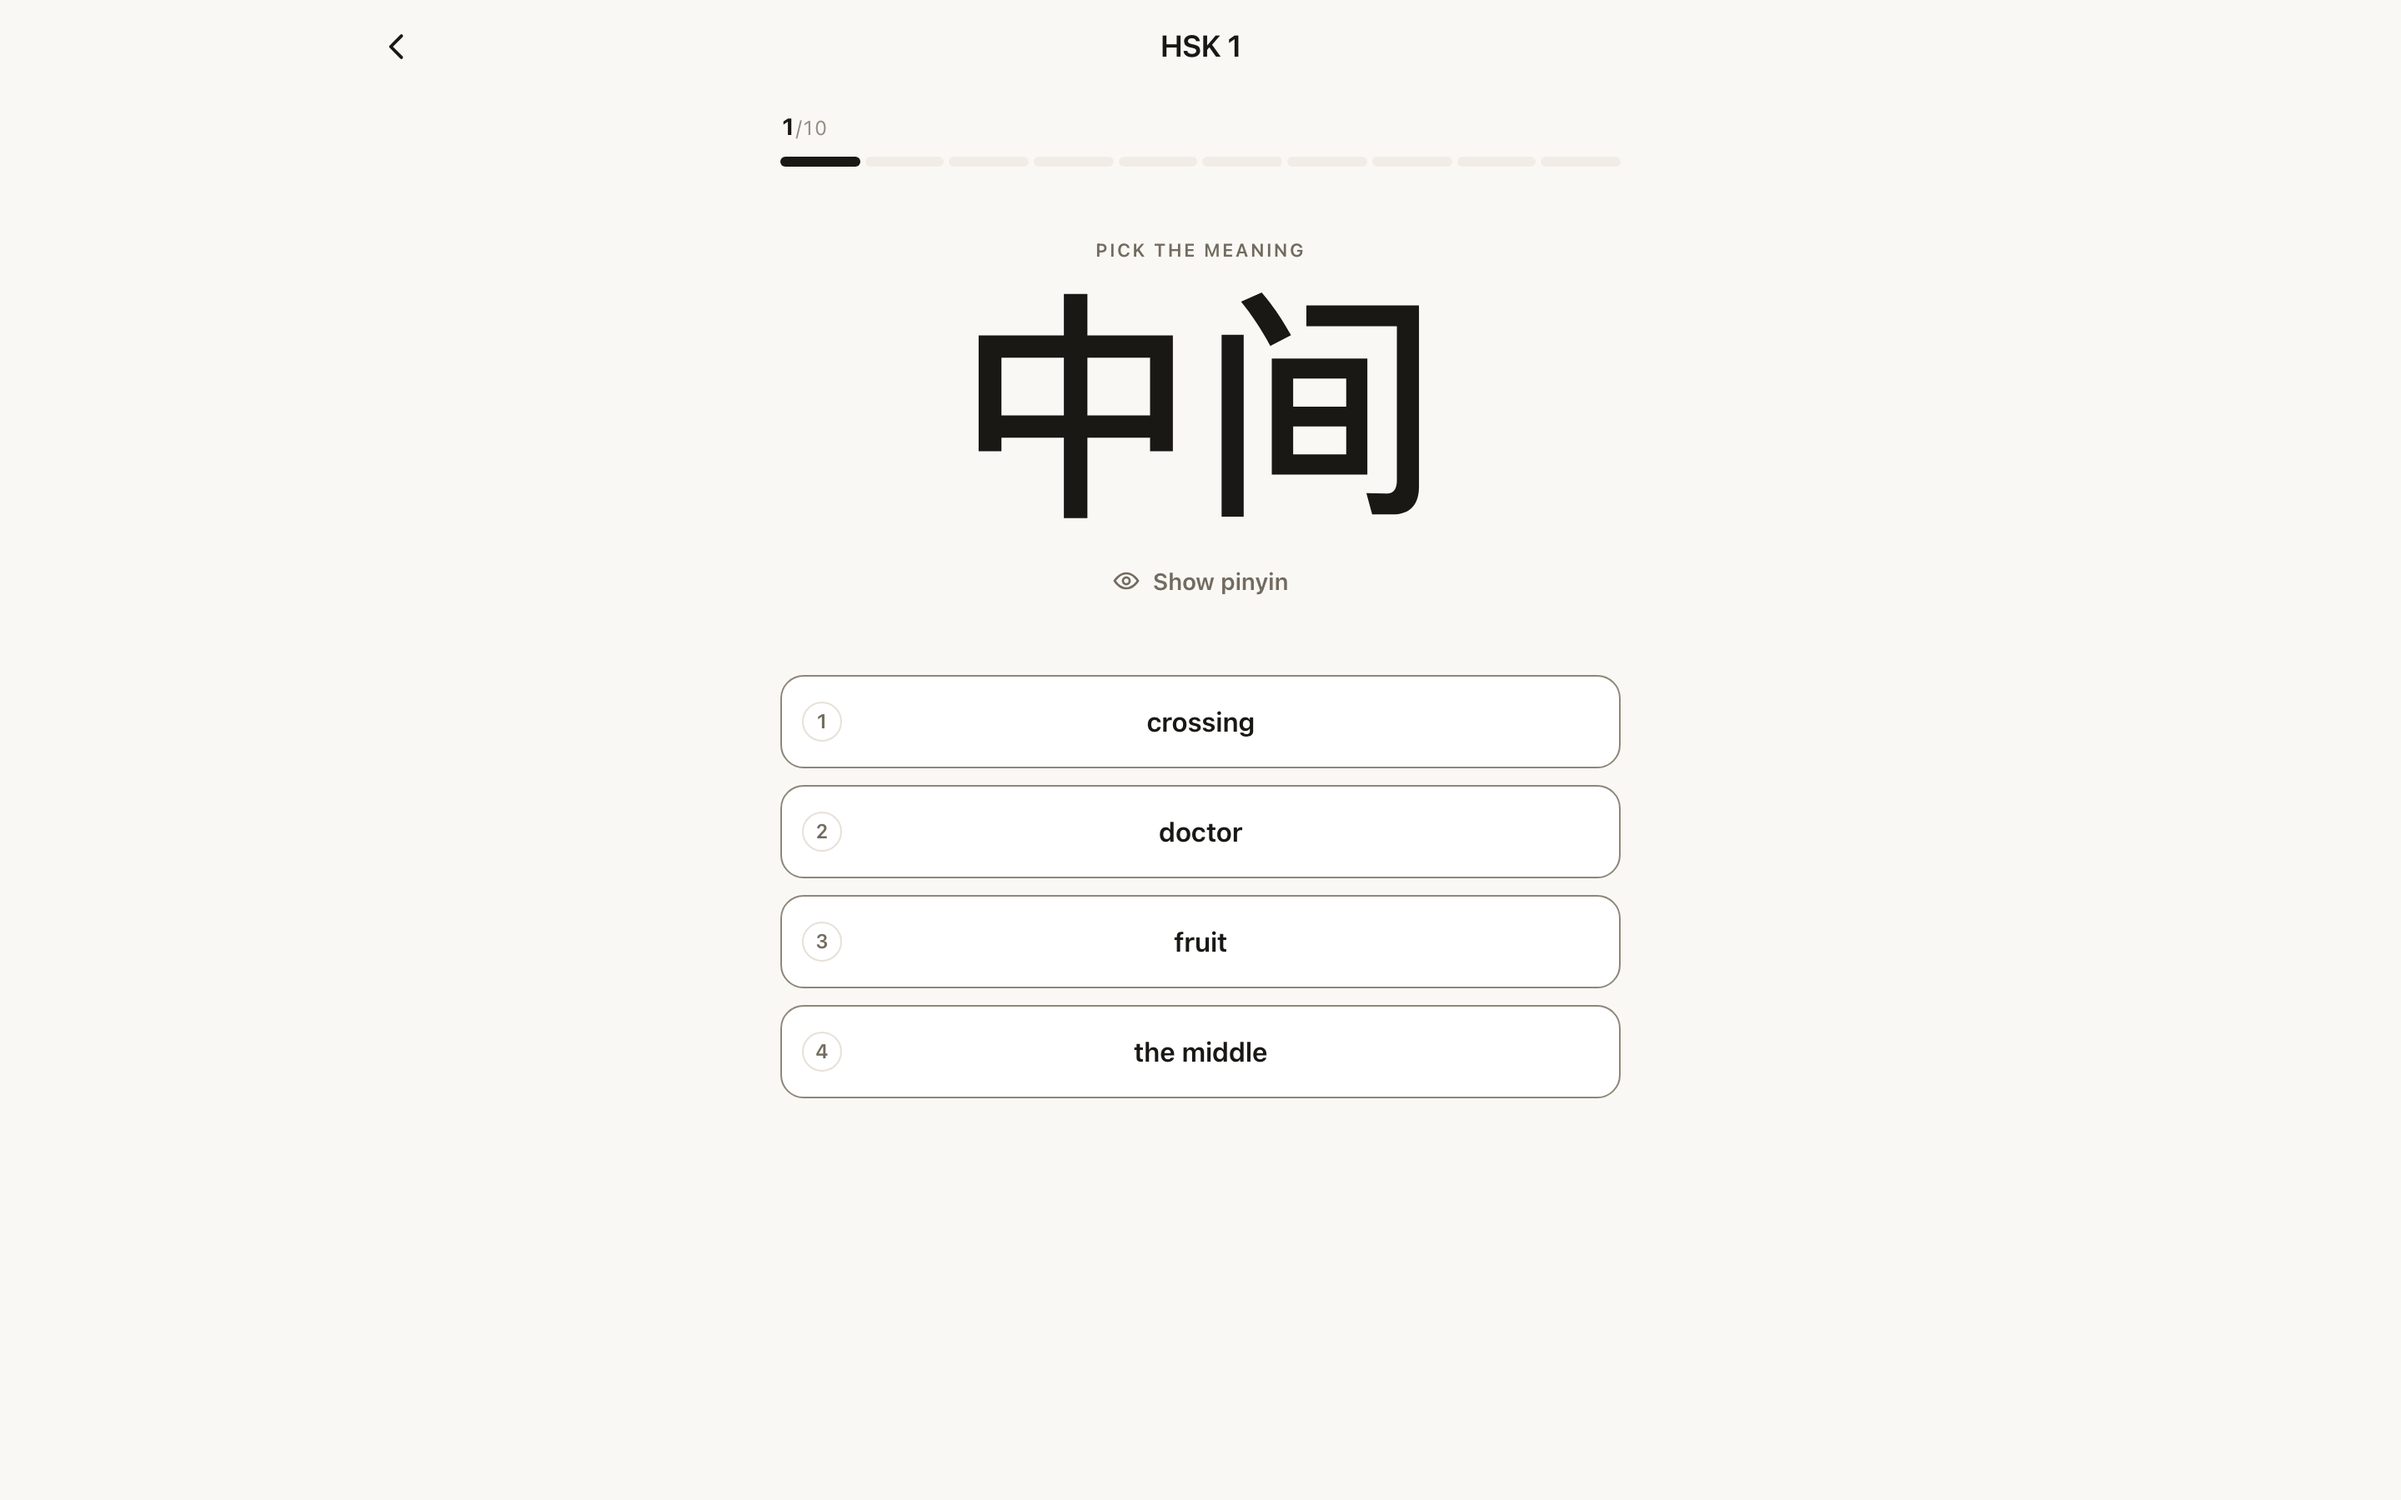
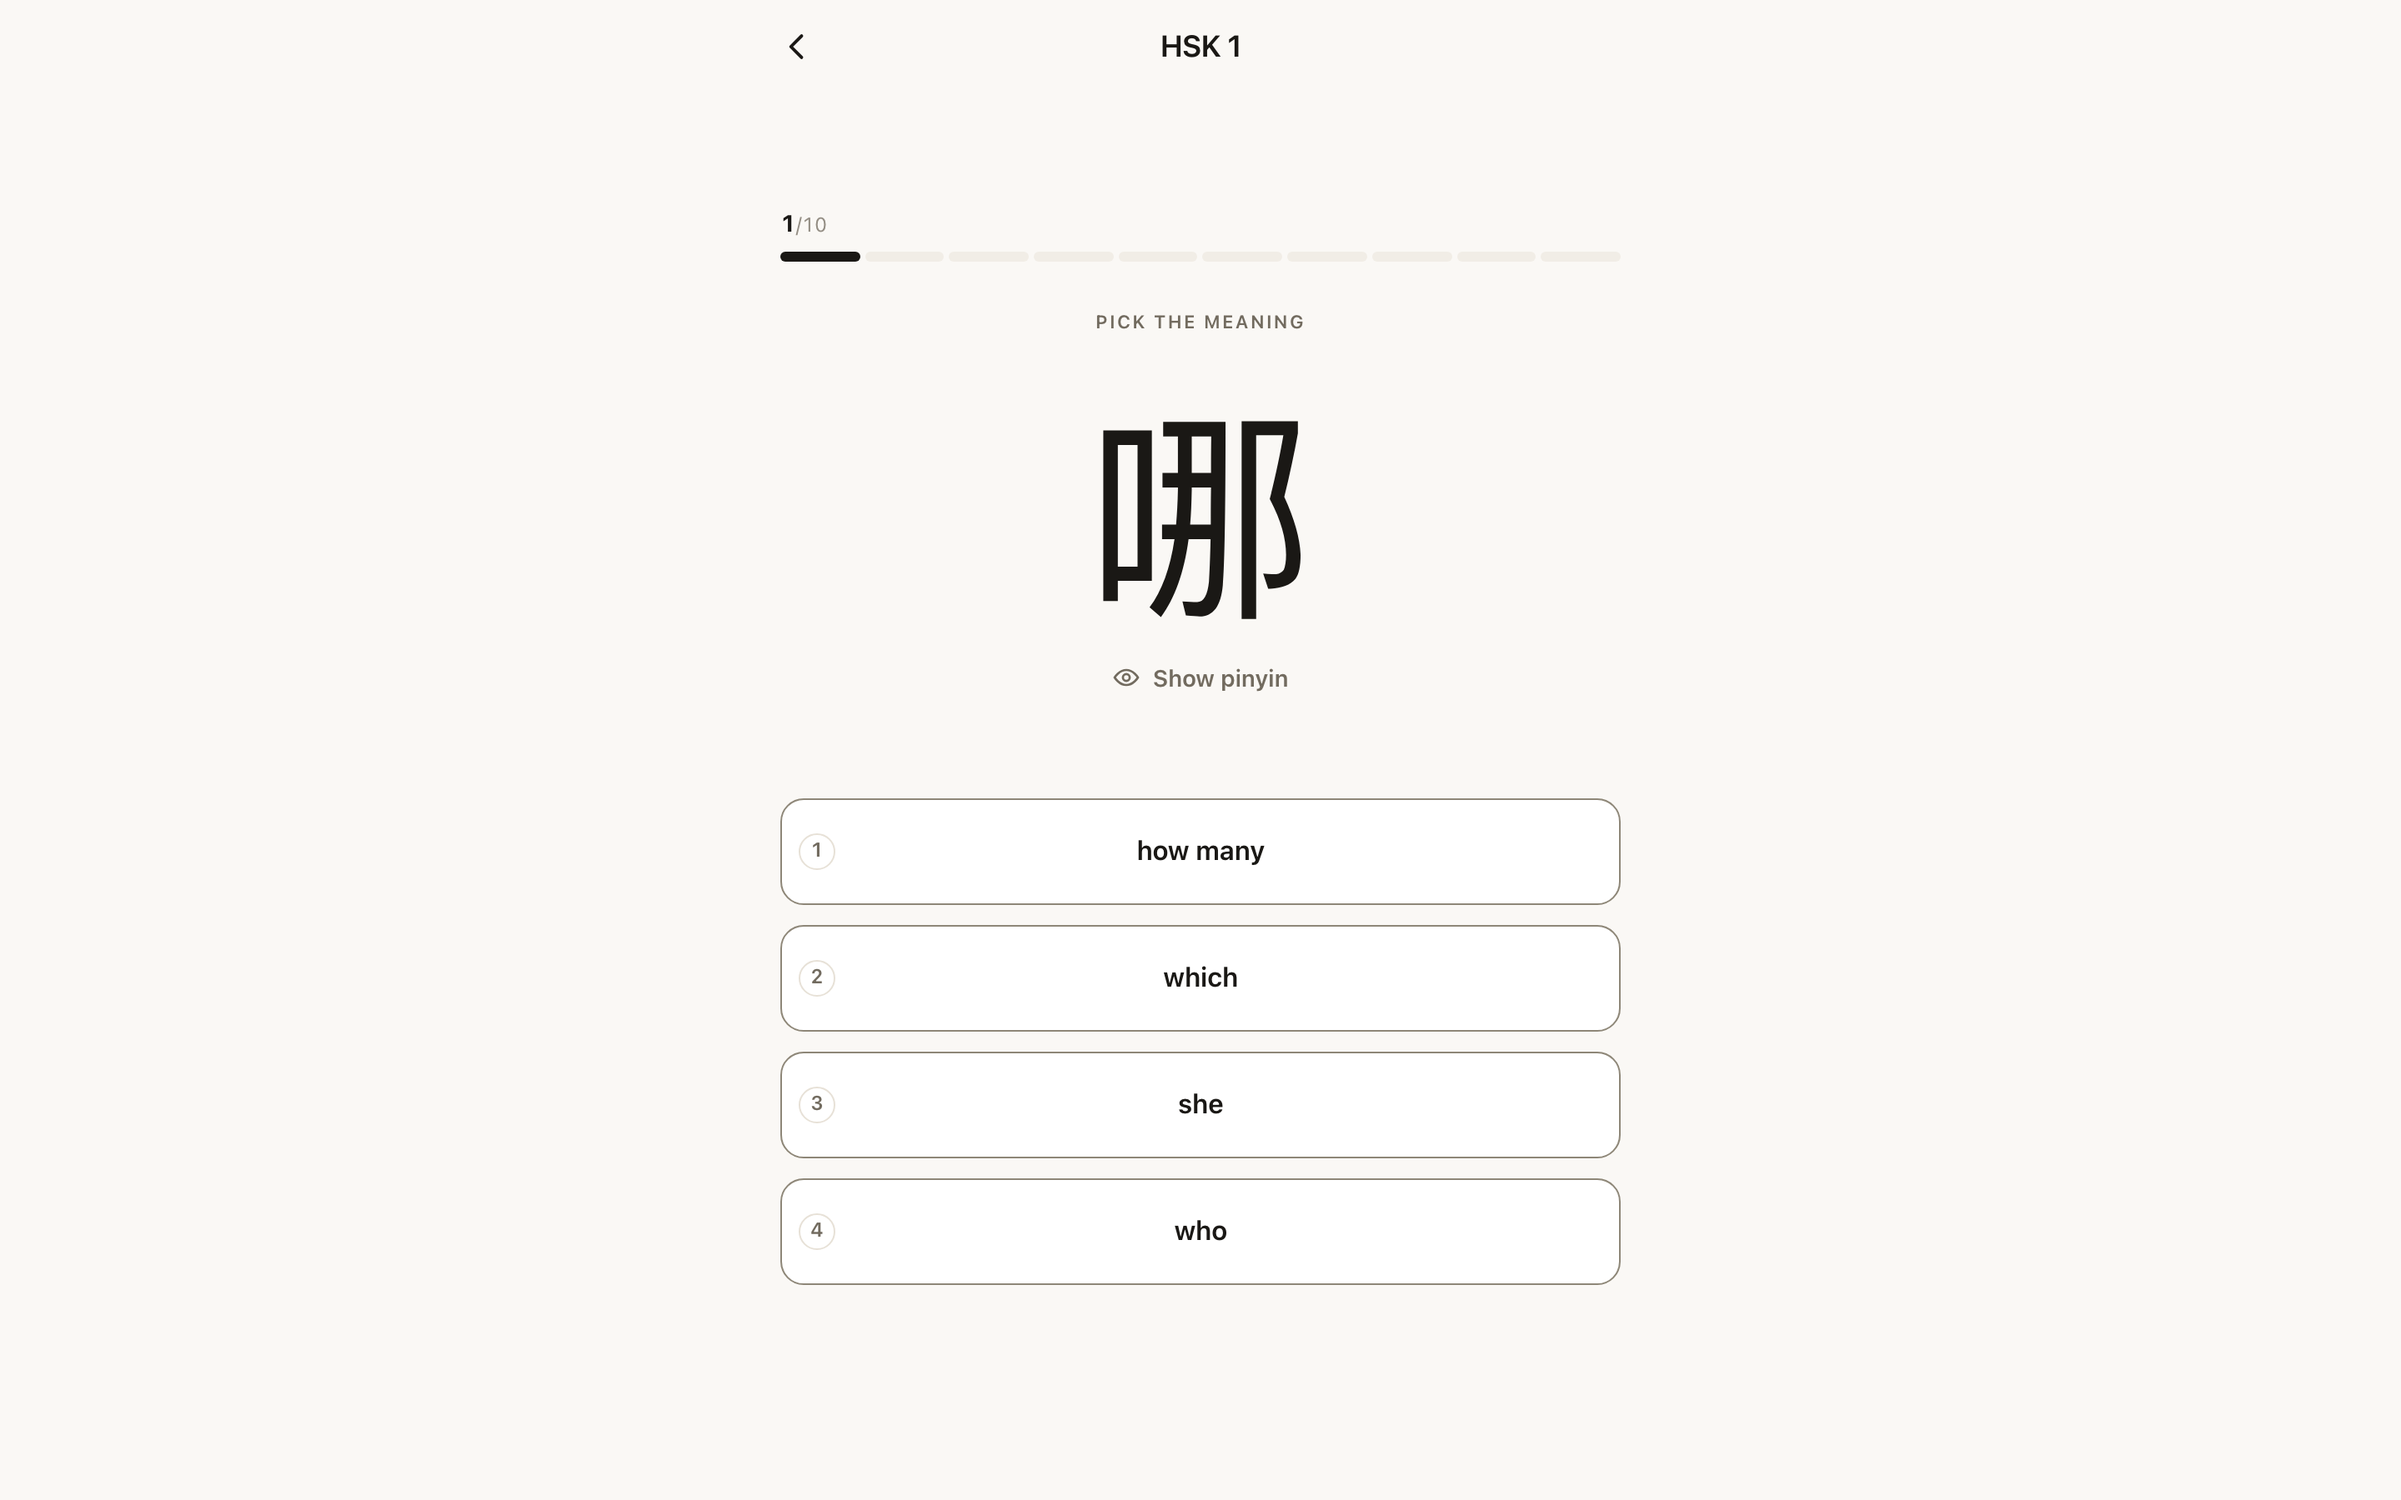
critic(design-system): FAIL — Give tone its own five hues, then let the landing page use them. [loop 2]

diff --git a/progress/verdicts/loop-2-design-system.md b/progress/verdicts/loop-2-design-system.md
@@ -1,0 +1,152 @@
+# Verdict — design-system, loop 2
+
+**PASS: no.** Loop 1's two `fail`s are genuinely fixed — tone colour now reaches every word
+(`bái tiān`, `ài hào`, `bà ba` all split and paint), and the counts reconcile. What remains is not
+a broken renderer, it is an undecided one: the system ships **four different answers to "where does
+tone colour go"** and **two tone hues that are byte-identical to state colours**, and the screen
+every learner sees first opts out of the whole thing.
+
+Every number below was re-derived from the shipped source and data, not taken on trust. All eight
+critic findings reproduce; none were overstated.
+
+---
+
+## Blind judge — it preferred **ours**, decisively
+
+`progress/blind/loop-2/design-system/mapping.json`: **A = Pleco** (`reference/screenshots/pleco/pleco-iphone-01.png`),
+**B = ours** (`/Users/div/Desktop/project/hskquiz/progress/shots/loop-2/design-system-browse-mobile.png`).
+The judge picked **B**, gap size **large**: *"B is authored; A is assembled… A's problems are the
+absence of a system."* Its `whatWeakerMustChange` list is therefore addressed to Pleco, not to us,
+and I am not going to launder it into a deficit.
+
+Two things in it do land on us, though, and both are load-bearing:
+
+1. **It found finding #3 blind.** Its one substantive complaint about B: *"its tone red for bā/tiān
+   is close enough to the 'Practise' red that a semantic data colour collides with the interface
+   accent."* It had no source access. It read `--hq-tone-1: #c8102e` off the pixels.
+2. **It settles finding #2 for us.** Its #1 instruction to Pleco is *"Stop colouring the hanzi…
+   move tone signalling onto the pinyin alone. Six fully saturated hues in the largest type on
+   screen is the single biggest craft failure here — it destroys the character silhouette."* Our
+   `browse/WordRow.svelte:50-54` already argues exactly this in a comment. `WordSheet.svelte:248`
+   and `summary/WordCard.svelte:98` do the condemned thing at 60px and 90px. The tie is broken:
+   **hanzi stays ink; tone lives on pinyin.**
+
+So the win is real and the browse list is the best screen in the app. It is also 1 of 5 screens.
+
+---
+
+## Surviving findings
+
+### 1. MAJOR — The landing page is outside the tone system, in the colour that means "wrong"
+
+Fifteen preview words and the hero pinyin are hand-set flat crimson with tone colouring explicitly
+disabled. `levels/LevelCard.svelte:94-100` passes `tones={false} spaced={false} class="…text-accent"`;
+`+page.svelte:120` hand-writes `<p class="…text-accent">cíhuì liànxí</p>` — which the file's own
+header forbids ("do not hand-write `var(--color-tone-*)` in a screen"; this is the same move in the
+other direction).
+
+`/Users/div/Desktop/project/hskquiz/progress/shots/loop-2/design-system-desktop.png`: tóngyì (2+4),
+mùbiāo (4+1), qūbié (1+2), xiàolǜ (4+4), xuéshù (2+4), chuántǒng (2+3) — six distinct tone patterns,
+one identical #c8102e. Two taps later the same data is in four hues
+(`design-system-browse-mobile.png`). The signature feature is invisible on the screen that has to
+sell it, and the colour standing in for it is the exact red of ✕ NOT QUITE
+(`design-system-summary-mobile.png`).
+
+The card comment says the budget is "one accent… fifteen words in five hues would spend it fifteen
+times." That is a defensible argument against *noise*. It is not an argument for *this* red.
+
+### 2. MAJOR — Four rules for where tone lands, so 爱 changes colour when you tap it
+
+`browse/WordRow.svelte:55`, `quiz/QuestionPrompt.svelte:115` and `quiz/ChoiceButton.svelte:97` pass
+`tones={false}`. `WordSheet.svelte:248` (`<Hanzi {word} size="lg" display />`) and
+`summary/WordCard.svelte:98` take the default `tones=true`. Verified in the shots: 爱 is ink #1a1815
+in `design-system-browse-mobile.png`, and the **same 爱, in the sheet that row opens**, is tone-4
+purple at 60px in `design-system-sheet-mobile.png`. `layout.css:130-137` states the policy as
+settled — "We follow Du Chinese… It goes on BOTH the hanzi and the pinyin" — and the app follows it
+on two screens out of five. The prose and the code disagree, and the code disagrees with itself.
+
+### 3. MAJOR — Two of five tone hues are byte-identical to state colours the file says never overlap
+
+Confirmed by grep, both themes:
+
+| token | light | dark | collides with |
+| --- | --- | --- | --- |
+| `--hq-tone-0` | `#726b5f` | `#9a9184` | `--hq-ink-subtle` (identical) |
+| `--hq-tone-1` | `#c8102e` | `#f2685e` | `--hq-accent` → `--color-wrong` (identical) |
+
+`layout.css:37-40` claims tone hues "are not part of the three roles above and never overlap with
+them… a red thing is a state, unless it is a 汉字 or a syllable." Recounted over shipped data:
+**1,644 of 7,905 syllables (20.8%) are tone 1** and print in wrong-red; **327 (4.1%) are tone 0** and
+print in de-emphasised grey. `design-system-summary-mobile.png` is the proof shot: 那儿 sets 那
+purple and 儿 in the app's own disabled-text grey at ~90px, and the card directly below sets 句 in
+wrong-red at ~90px **under a red ✕ NOT QUITE eyebrow**. The deuteranope escape hatch in the comment
+("the tone is already written in the diacritic") covers pinyin. It does not cover hanzi, which has
+no diacritic — and hanzi is where this is largest.
+
+### 4. MAJOR — The spacing scale added for loop-1 #7 is documented and unused
+
+`layout.css:70-80` declares 2xs…3xl plus `--spacing-block`, `--spacing-section` and `.stack`, and
+asserts "Every gap between blocks should be one of these, not a number somebody picked while looking
+at one screen." Measured: `class="…stack…"` → **0 matches**; `--spacing-block` / `--spacing-section`
+→ **0 consumers outside layout.css**. 19 uses of any `--spacing-*` token against 156 hand-written rem
+gaps, 78 of them off-scale (0.625rem ×17, 0.375rem ×17, 0.875rem ×8, 0.1875rem ×7…). The rhythm is
+prose, not layout — which is precisely what the judge praised B for having and Pleco for lacking.
+
+### 5. MAJOR — The landing page prints a causal claim the reference does not support
+
+`+page.svelte:62` is literally `const mergedPairs = officialTotal - SHIPPED_TOTAL;`, rendered at
+line 127 as "8 pairs of same-pinyin homographs share a card"
+(`design-system-mobile.png`, `design-system-desktop.png`). I counted duplicate
+(digit-stripped simplified, pinyin) pairs **within each level** across
+`reference/hsk/hsk30-official-L{1..5}.json`: **6**, not 8 — 面¹/面² and 省/省 (L2), 把/把, 任/任,
+为/为 (L3), 批/批 (L4). Per level the shortfall is L2 −2 (2 dups), L3 −4 (3 dups), L4 −1 (1 dup),
+L5 −1 (**0 dups**). So L3 and L5 are each missing one row to something that is not a homograph.
+Because the figure is a subtraction, any future data loss silently relabels itself as more
+homographs and the sentence stays "true". The comment at :55-60 says the derivation exists so it
+"can never drift out of step" — it has the failure mode backwards.
+
+### 6. MINOR — Eliminated-option border is 2.21:1 against the file's own ≥3:1 contract
+
+`ChoiceButton.svelte:186` `color-mix(… line-strong 70%, page)` computes to **#aea99e on #faf8f5 =
+2.21:1** and **#504a40 on #100f0e = 2.18:1**. `layout.css:87` sets ≥3:1 for interactive borders and
+says a hairline "must not be the only thing defining a control". In
+`design-system-picked-mobile.png` "difficult" and "many" float. The real loop-1 defect (gloss at
+2.72:1) *is* fixed — this is a knowingly-taken step, owned in the comment at :179-183. It is still
+a stated contract, broken.
+
+### 7. MINOR — `--color-line-strong` misses its own ≥3:1 in dark mode
+
+Computed from shipped values: #6b6355 on sunken #211e1a = **2.80:1**; on surface #191714 = 3.02:1;
+on page #100f0e = 3.23:1. Sole 1px border of controls in `SearchField.svelte:119`,
+`ChoiceButton.svelte:127`, `WordSheet.svelte:473`. Light mode passes (3.06–3.57:1).
+
+### 8. MINOR — `--text-hanzi-2xl` is dead; desktop grid leaves a card-sized hole
+
+`size="2xl"` appears **0 times** across `src/` (sm ×13, xs ×5, xl ×4, lg ×3, md ×2, prompt, hero) —
+the only step on either Chinese scale with no caller, unchanged since loop 1. And in
+`design-system-desktop.png` the 3+2 group split strands HSK 3 alone beside an empty ~500×330 cell
+while the left rail stops at ~40% viewport height. Mobile is tight and confident; desktop is the
+mobile stack widened.
+
+---
+
+## Biggest gap
+
+**Give tone its own five hues, then let the landing page use them.**
+
+In `src/routes/layout.css`, move `--hq-tone-1` off `#c8102e` / `#f2685e` and `--hq-tone-0` off
+`#726b5f` / `#9a9184` — pick a tone-1 red and a tone-0 neutral that no state, text or border token
+holds in either theme, and add the assertion to the accessibility contract at :84-92 so it cannot
+drift back. Then delete `tones={false} spaced={false}` and `class="…text-accent"` from the
+`<Pinyin>` at `levels/LevelCard.svelte:94-100` and replace the hand-written
+`<p class="…text-accent">cíhuì liànxí</p>` at `+page.svelte:120` with a tone-coloured `<Pinyin>`, so
+the first screen's sixteen pieces of pinyin are painted by the same rule as every other piece of
+pinyin in the app.
+
+Do the palette half **first**. Turning tone colour on at the landing page while `--hq-tone-1` is
+still `#c8102e` paints xièxie, bā, mùbiāo and qūbié in the wrong-answer red and spreads the
+collision instead of fixing it — which is the flaw the blind judge spotted in our browse list with
+no access to the source. This one change is what makes finding #1 and finding #3 both go away, and
+it is the prerequisite for the follow-on that findings #2 and the judge agree on: keep `tones={false}`
+on hanzi everywhere and remove the default-true colouring from `WordSheet.svelte:248` and
+`summary/WordCard.svelte:98`, so 爱 is the same colour in the row and in the sheet that row opens.
